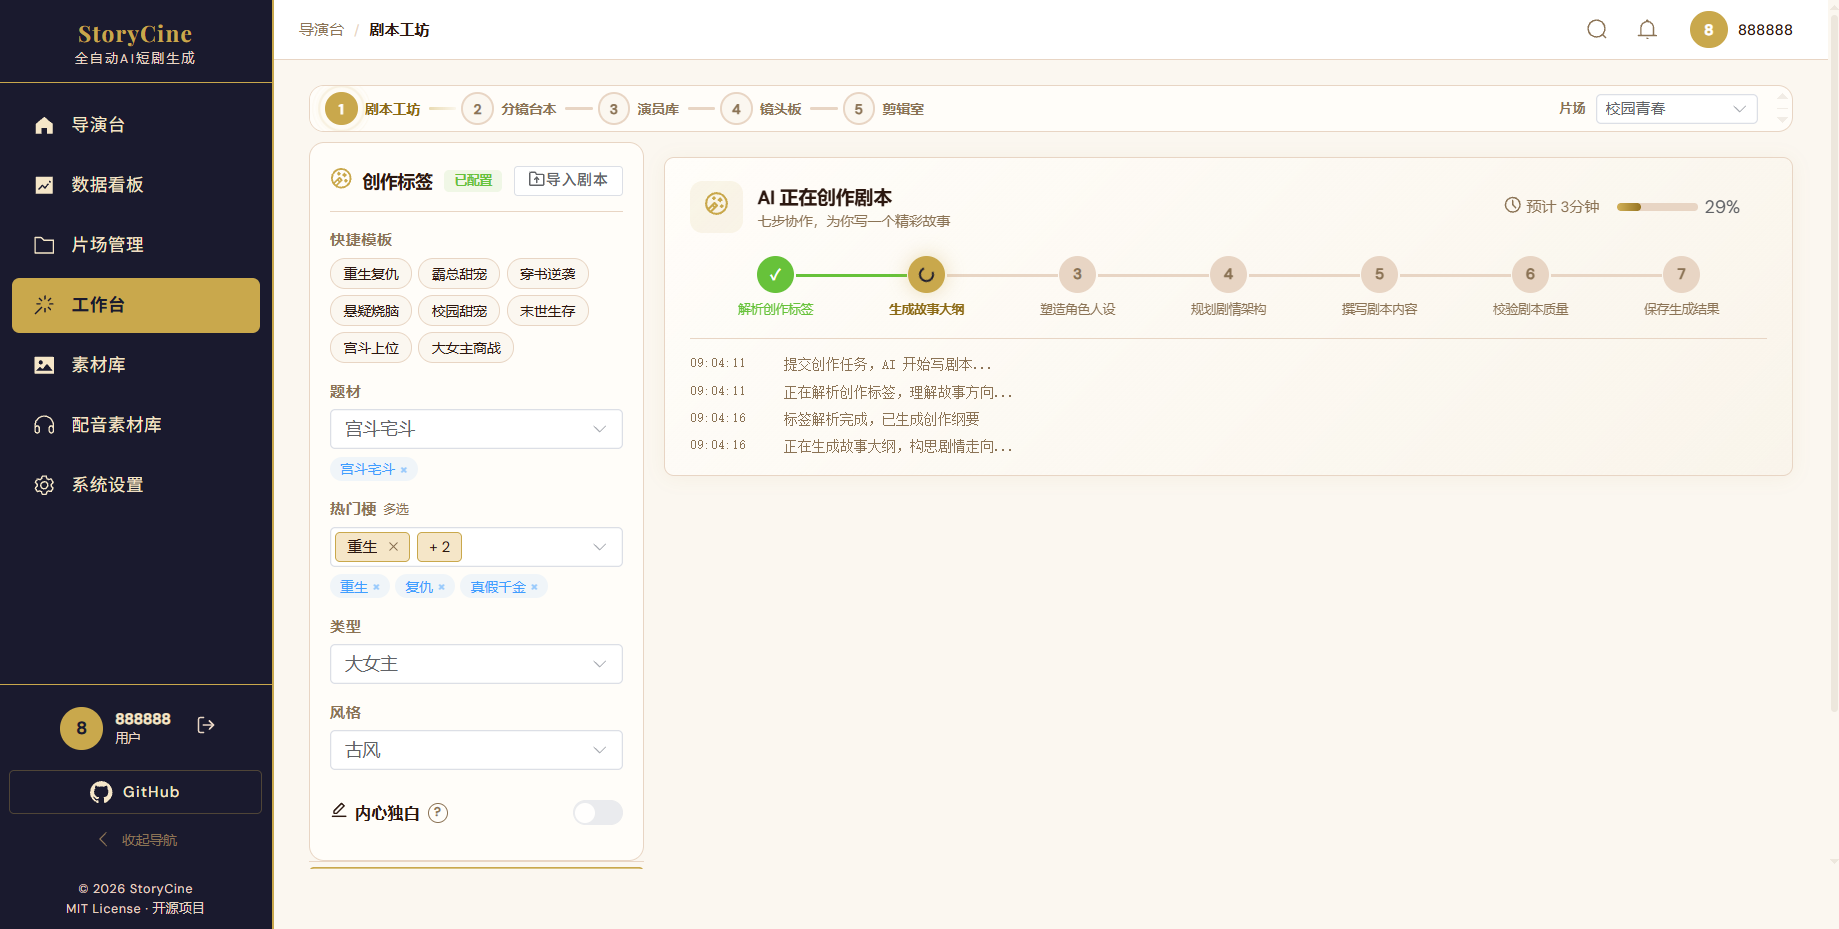
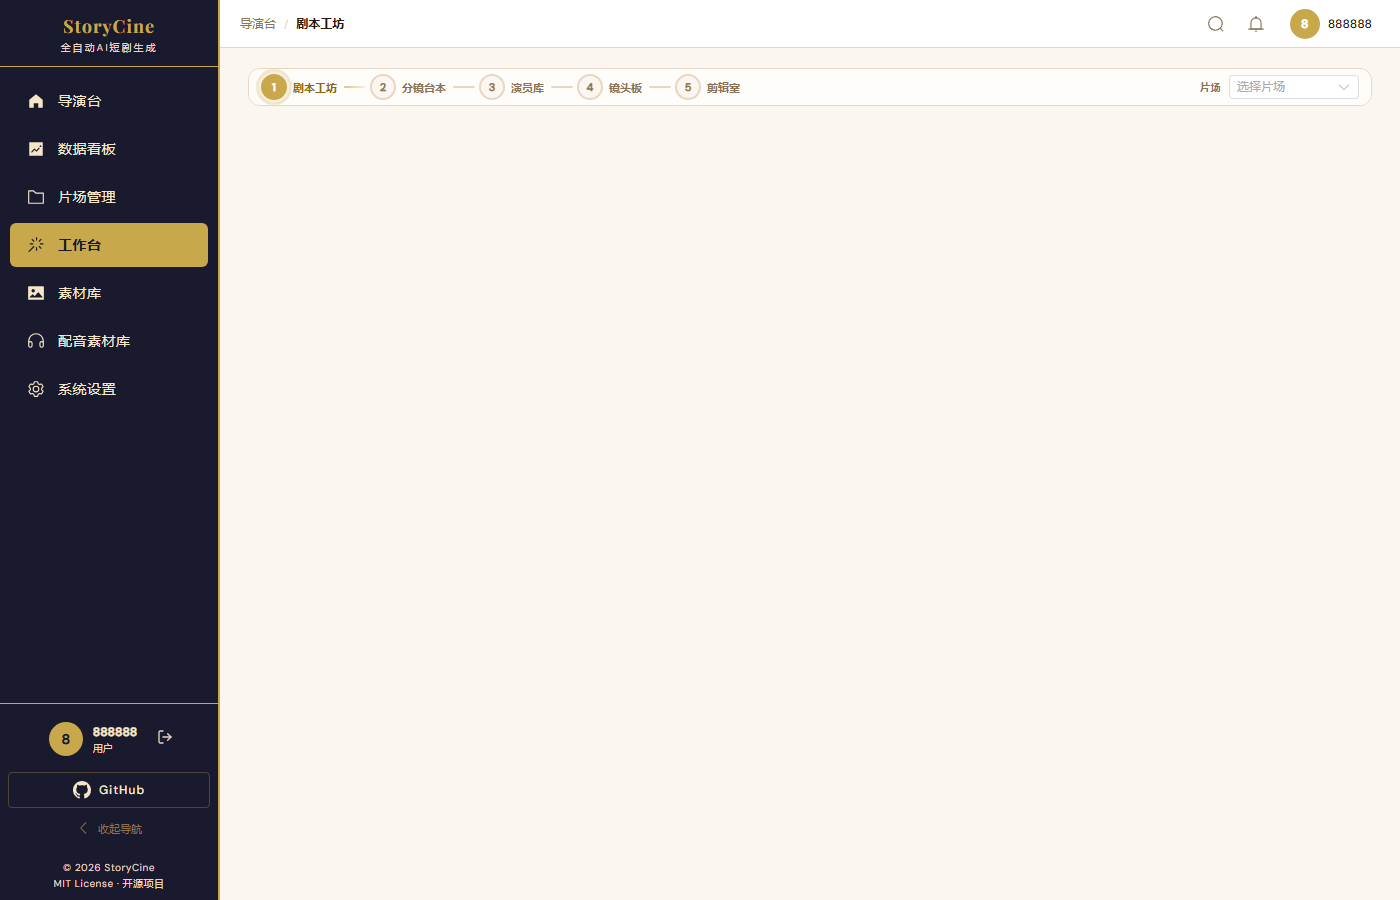
feat: 顶部栏添加使用帮助按钮，跳转GitHub Pages文档站

diff --git a/frontend/src/App.vue b/frontend/src/App.vue
@@ -115,6 +115,10 @@
         </div>
       </div>
       <div class="topbar-right">
+        <a href="https://ljy532126.github.io/storycine/" target="_blank" class="topbar-help-link" title="使用帮助">
+          <div class="topbar-icon"><el-icon :size="18"><QuestionFilled /></el-icon></div>
+          <span class="topbar-help-text">帮助</span>
+        </a>
         <el-tooltip content="全局搜索 Ctrl+K" placement="bottom">
           <div class="topbar-icon" @click="searchVisible = true"><el-icon :size="18"><Search /></el-icon></div>
         </el-tooltip>
@@ -260,7 +264,7 @@ import { ref, computed, onMounted, nextTick, watch } from 'vue';
 import { useRoute, useRouter } from 'vue-router';
 import zhCn from 'element-plus/dist/locale/zh-cn.mjs';
 import {
-  HomeFilled, MagicStick, Edit, UserFilled, Film, VideoCameraFilled, PictureFilled, Setting, Folder, TrendCharts, Search, Headset, WarningFilled, Bell,
+  HomeFilled, MagicStick, Edit, UserFilled, Film, VideoCameraFilled, PictureFilled, Setting, Folder, TrendCharts, Search, Headset, WarningFilled, Bell, QuestionFilled,
   ArrowLeft, ArrowRight, Menu as MenuIcon, Close,
 } from '@element-plus/icons-vue';
 import { useProjectStore } from './stores/project';
@@ -648,6 +652,10 @@ body { font-family: 'DM Sans', 'Microsoft YaHei', sans-serif; background: var(--
   transition: all 0.15s;
 }
 .topbar-icon:hover { background: var(--bg-100); color: var(--text-100); }
+.topbar-help-link { display: flex; align-items: center; gap: 4px; text-decoration: none; margin-right: 6px; }
+.topbar-help-text { font-size: 11px; color: var(--text-200); font-weight: 500; }
+.topbar-help-link:hover .topbar-icon { background: var(--bg-100); color: var(--text-100); }
+.topbar-help-link:hover .topbar-help-text { color: var(--gold-dark); }
 .topbar-badge {
   position: absolute; top: 2px; right: 2px;
   min-width: 16px; height: 16px; line-height: 16px; padding: 0 4px;
